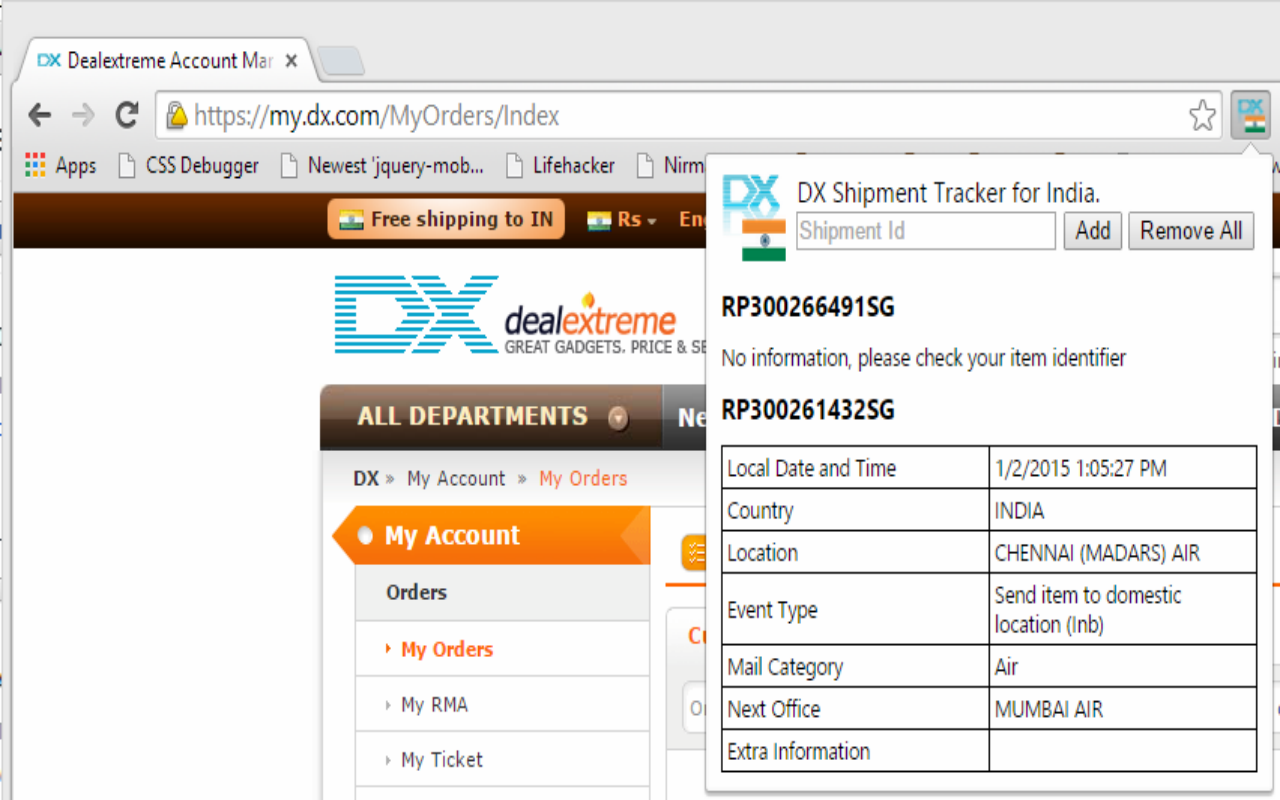
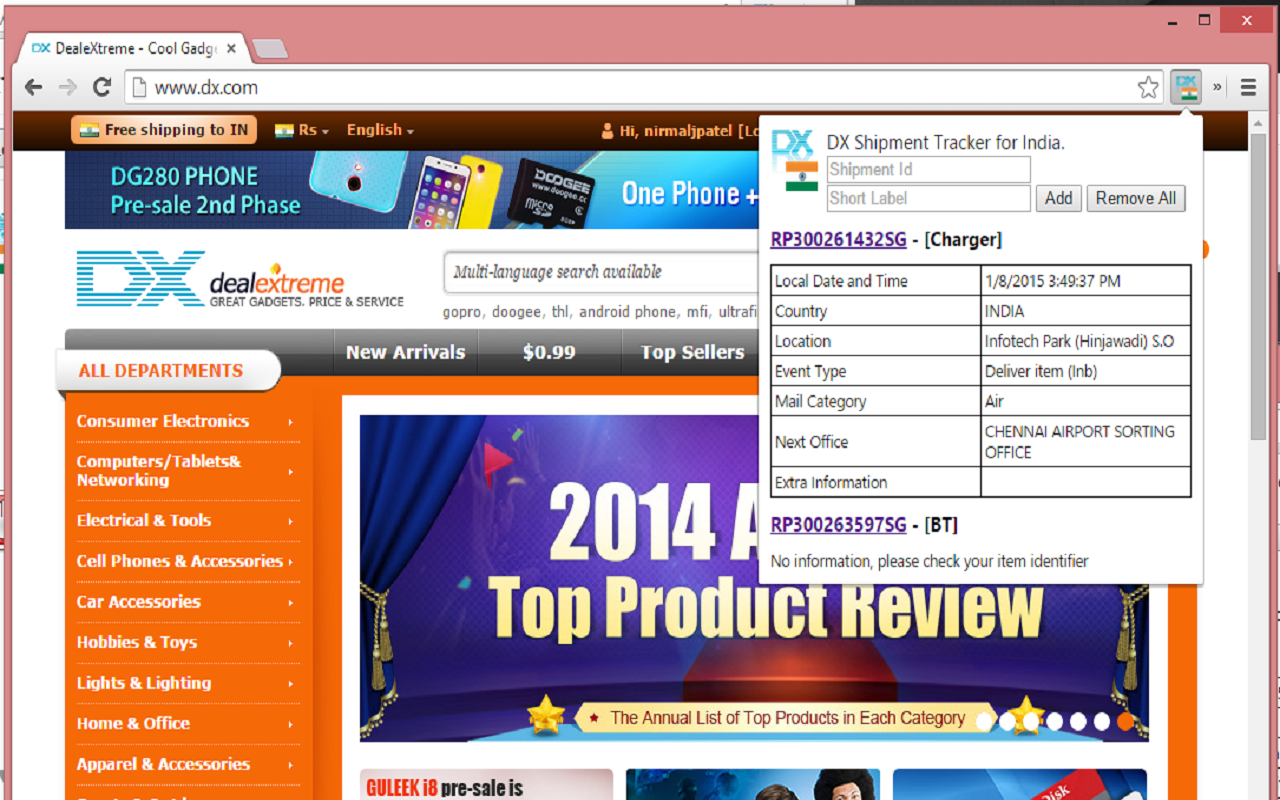
Preparing 1.2 release

diff --git a/README.md b/README.md
@@ -26,7 +26,7 @@ This is mostly a learning exercise for myself to understand the Chrome Extension
   3. [ ] Cache last query results.
   4. [ ] Proactive notification to users by detecting changes in shipment info.
   5. [ ] Ability to delete individual ShipmentIds.
-  6. [ ] Hyperlinks to IPS search site.
+  6. [x] Hyperlinks to IPS search site.
   7. [x] Allow user to enter a custom description label for each shipmentId.
 6. [ ] [**Analytics**](https://developer.chrome.com/apps/analytics)
   1. [x] Integrated with Google analytics .
